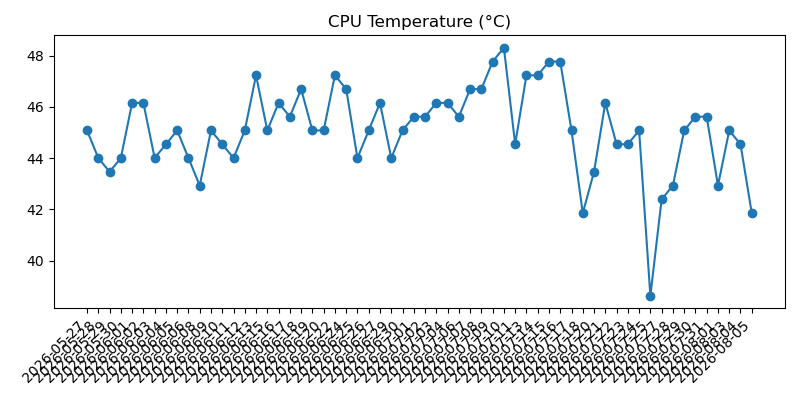
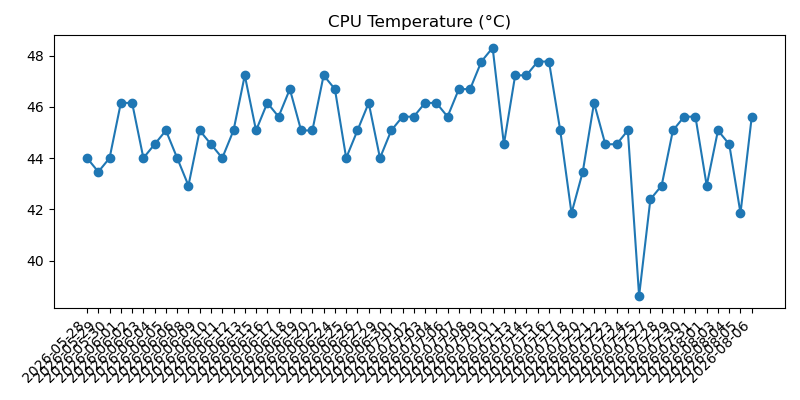
Add daily health and weather snapshot

Changed region(s): [[0.0938, 0.09, 0.9688, 0.75], [0.0938, 0.81, 0.9375, 0.87]]

diff --git a/2026-08.md b/2026-08.md
@@ -136,3 +136,37 @@
 - Overall: Good
 - Warning: None
 
+## 2026-08-06 09:20:22
+
+### Machine
+- Uptime: up 1 day, 16 hours, 1 minute
+- CPU load (1m, 5m, 15m): 0.00, 0.00, 0.00
+- RAM used: 165 MB / 921 MB (17.9%)
+- Disk used (/): 3.6 GB / 28.8 GB (12.4%)
+- Free disk space (/): 24.0 GB
+- CPU temp: 45.6°C
+- Voltage / throttling: OK
+
+### Reachability
+- Internet check (1.1.1.1): Reachable (4.4 ms)
+
+### Weather
+- Madrid:
+  - Condition: Despejado
+  - Max temp: 37°C
+  - Min temp: 23°C
+  - Feels like: 30°C
+  - Chance of rain: 0%
+  - Warnings: None reported
+- Barcelona:
+  - Condition: Intervalos nubosos con lluvia
+  - Max temp: 32°C
+  - Min temp: 25°C
+  - Feels like: 30°C
+  - Chance of rain: 90%
+  - Warnings: None reported
+
+### Health
+- Overall: Good
+- Warning: None
+
